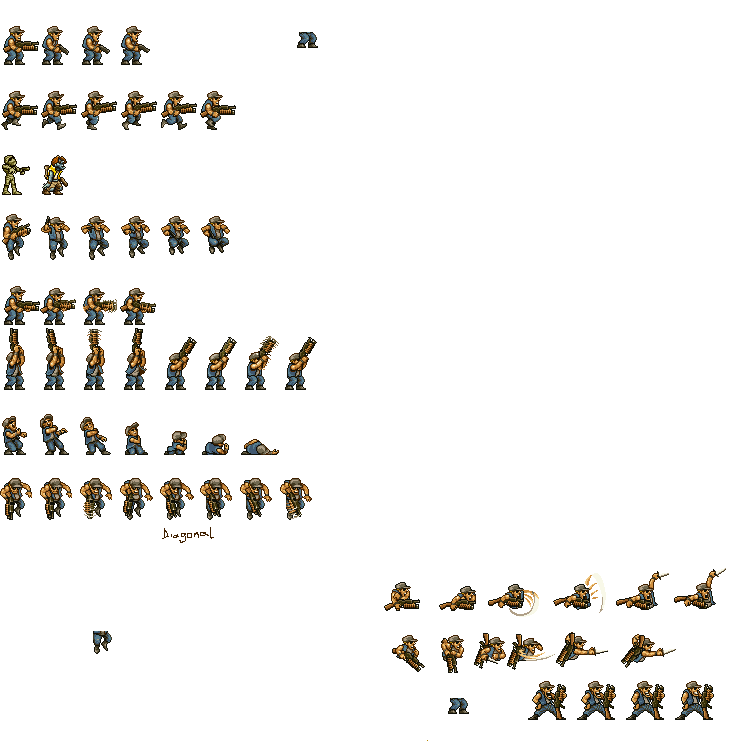
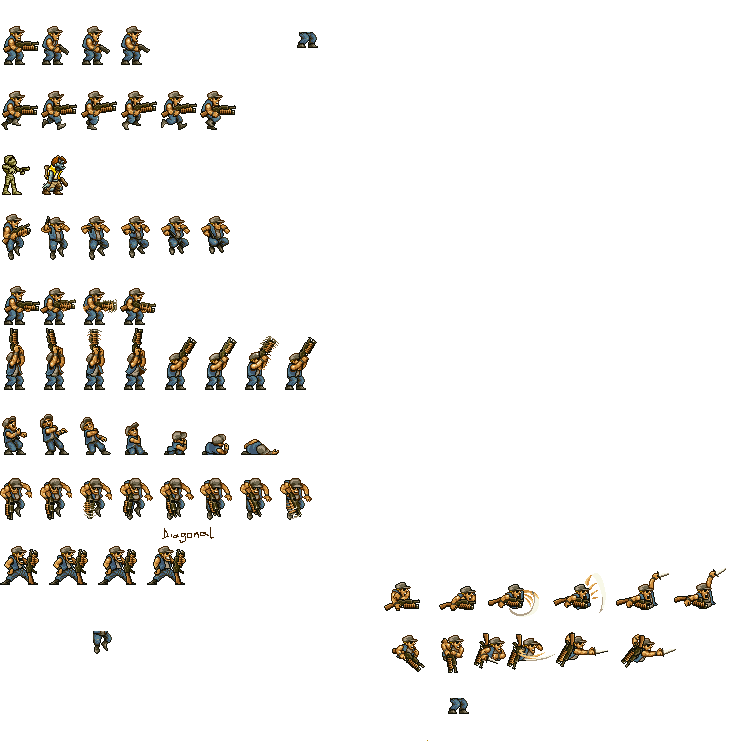
pantalla negra 2 cuando se muere el jefe apretar A o D

Changed region(s): [[0.7158, 0.9001, 0.9648, 0.9933], [0.0, 0.7139, 0.249, 0.807]]

diff --git a/Servidor/ContenedorEnemigos.cpp b/Servidor/ContenedorEnemigos.cpp
@@ -22,7 +22,7 @@ void ContenedorEnemigos::cargarEnemigosDelNivel(int nivel, int ALTO_VENTANA){
 	if (nivel == 1) {
 		nuevoEnemigo(750, ALTO_VENTANA - 100, 2);
 		nuevoEnemigo(800, ALTO_VENTANA - 100, 3);
-		nuevoEnemigo(1000, ALTO_VENTANA - 100, 2);
+		/*nuevoEnemigo(1000, ALTO_VENTANA - 100, 2);
 		nuevoEnemigo(1200, ALTO_VENTANA - 100, 3);
 		nuevoEnemigo(1400, ALTO_VENTANA - 100, 3);
 		nuevoEnemigo(1650, ALTO_VENTANA - 100, 2);
@@ -66,11 +66,11 @@ void ContenedorEnemigos::cargarEnemigosDelNivel(int nivel, int ALTO_VENTANA){
 		nuevoEnemigo(7700, ALTO_VENTANA - 100, 1);
 		nuevoEnemigo(7800, ALTO_VENTANA - 100, 1);
 		nuevoEnemigo(7900, ALTO_VENTANA - 100, 4);
-		nuevoEnemigo(8000, ALTO_VENTANA - 100, 2);
+		nuevoEnemigo(8000, ALTO_VENTANA - 100, 2);*/
 	} else if (nivel == 2) {
 		nuevoEnemigo(750, ALTO_VENTANA - 100, 2);
 		nuevoEnemigo(800, ALTO_VENTANA - 100, 3);
-		nuevoEnemigo(1000, ALTO_VENTANA - 100, 2);
+		/*nuevoEnemigo(1000, ALTO_VENTANA - 100, 2);
 		nuevoEnemigo(1200, ALTO_VENTANA - 100, 3);
 		nuevoEnemigo(1400, ALTO_VENTANA - 100, 3);
 		nuevoEnemigo(1650, ALTO_VENTANA - 100, 2);
@@ -114,11 +114,11 @@ void ContenedorEnemigos::cargarEnemigosDelNivel(int nivel, int ALTO_VENTANA){
 		nuevoEnemigo(7700, ALTO_VENTANA - 100, 1);
 		nuevoEnemigo(7800, ALTO_VENTANA - 100, 1);
 		nuevoEnemigo(7900, ALTO_VENTANA - 100, 4);
-		nuevoEnemigo(8000, ALTO_VENTANA - 100, 2);
+		nuevoEnemigo(8000, ALTO_VENTANA - 100, 2);*/
 	} else if (nivel == 3) {
 		nuevoEnemigo(750, ALTO_VENTANA - 100, 2);
 		nuevoEnemigo(800, ALTO_VENTANA - 100, 3);
-		nuevoEnemigo(1000, ALTO_VENTANA - 100, 2);
+		/*nuevoEnemigo(1000, ALTO_VENTANA - 100, 2);
 		nuevoEnemigo(1200, ALTO_VENTANA - 100, 3);
 		nuevoEnemigo(1400, ALTO_VENTANA - 100, 3);
 		nuevoEnemigo(1650, ALTO_VENTANA - 100, 2);
@@ -162,7 +162,7 @@ void ContenedorEnemigos::cargarEnemigosDelNivel(int nivel, int ALTO_VENTANA){
 		nuevoEnemigo(7700, ALTO_VENTANA - 100, 1);
 		nuevoEnemigo(7800, ALTO_VENTANA - 100, 1);
 		nuevoEnemigo(7900, ALTO_VENTANA - 100, 4);
-		nuevoEnemigo(8000, ALTO_VENTANA - 100, 2);
+		nuevoEnemigo(8000, ALTO_VENTANA - 100, 2);*/
 	}
 }
 

diff --git a/Servidor/socket.cpp b/Servidor/socket.cpp
@@ -371,10 +371,15 @@ void quitarBonus(int idBonus){
 }
 
 void avanzarPantallaScore(){
-	for (list<usuarioClass*>::iterator it = listaDeUsuarios.begin(); it != listaDeUsuarios.end(); ++it) {
-		if((**it).estaConectado()){
-			mensajeClass* mensajeObj = new mensajeClass(0, (**it).numCliente(), 0, 0, 0, 0, 0, '0', 20);
-			listaDeMensajes.push_back(mensajeObj);
+	for (list<DibujableServer*>::iterator itD = listaDibujables.begin(); itD != listaDibujables.end(); ++itD) {
+		for (list<usuarioClass*>::iterator it = listaDeUsuarios.begin(); it != listaDeUsuarios.end(); ++it) {
+			if((**it).estaConectado()){
+				char nombreAutor[50] = "tu vieja";
+				mensajeClass* mensajeObj = new mensajeClass(nombreAutor, (**it).numCliente(), (*itD)->id, (*itD)->x, (*itD)->y, 0, 9, (*itD)->flip, 0, 0);
+				listaDeMensajes.push_back(mensajeObj);
+				mensajeObj = new mensajeClass(0, (**it).numCliente(), 0, 0, 0, 0, 0, '0', 20);
+				listaDeMensajes.push_back(mensajeObj);
+			}
 		}
 	}
 
@@ -1126,7 +1131,7 @@ void *atender_cliente(void *arg) //FUNCION PROTOCOLO
 							}
 						}
 
-						if (camaraX >= 8075){ //8075
+						if (camaraX >= 1000){ //8075
 							avanzarCamara = false;
 							jefePresente = true;
 							contenedorEnemigos.iniciarJefe(camaraX, nivelActual);

diff --git a/Cliente/LTexture.cpp b/Cliente/LTexture.cpp
@@ -210,7 +210,9 @@ void LTexture::inicializarTexture(SDL_Renderer* window, char* text){
 	player[7][6].x=410; player[7][6].y=200;
 	player[7][6].w=40; player[7][6].h=65;
 
-
+	//cancheriando
+	player[0][9].x=0; player[0][9].y=520;
+	player[0][9].w=40; player[0][9].h=65;
 
 }
 

diff --git a/Servidor/DibujableServer.cpp b/Servidor/DibujableServer.cpp
@@ -81,6 +81,11 @@ void DibujableServer::aumentarDano (int cantidad){
 	}
 }
 
+void DibujableServer::cancheriar(){
+	spX = 0;
+	spY = 9;
+}
+
 void DibujableServer::saltar(){
 
 	if(estaEnElPiso){

diff --git a/Servidor/DibujableServer.h b/Servidor/DibujableServer.h
@@ -65,6 +65,7 @@ public:
 
 	void aumentarDano (int cantidad);
 
+	void cancheriar();
 	void saltar();
 	void apuntarArriba();
 	void apuntarAbajo();

diff --git a/Cliente/LTexture.h b/Cliente/LTexture.h
@@ -13,7 +13,7 @@ class LTexture {
 public:
 	int id;
 
-	SDL_Rect player[9][9];
+	SDL_Rect player[9][10];
 	
 	int xcord;
 	int ycord;
